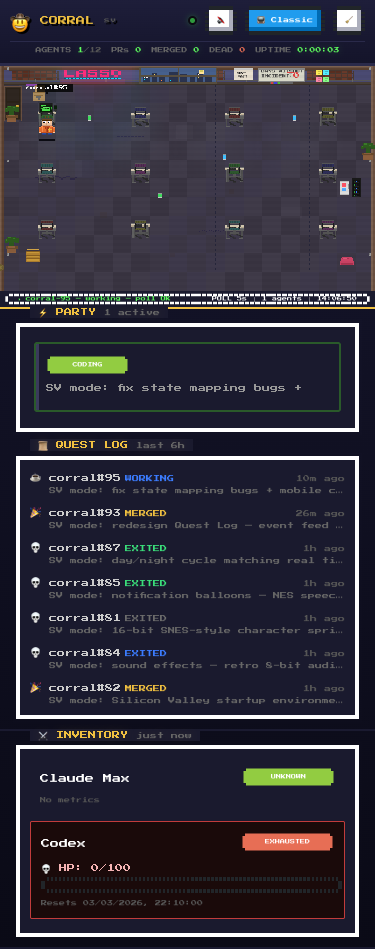
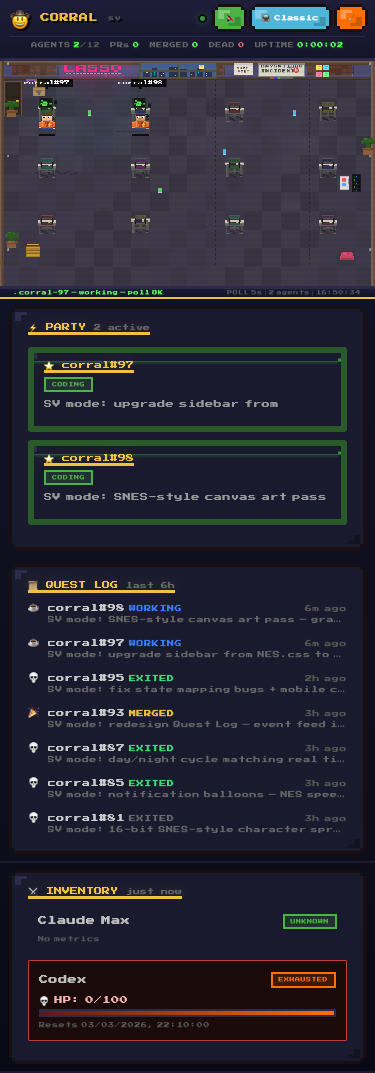
SV mode: SNES-style canvas art pass — gradients, glow, particles
Add surface gradients, ambient lighting, and particle effects to the
SV canvas scene to match SNES-era visual quality standards.

diff --git a/sv.html b/sv.html
@@ -1524,6 +1524,36 @@ for (let r = 0; r < 3; r++)
   for (let c = 0; c < 4; c++)
     DESKS.push({ x: 2 + c * 5, y: 2 + r * 3 });
 
+// --- Ambient particles (dust motes + neon sparkles) ---
+const particles = [];
+(function initParticles() {
+  const W = COLS * TILE, H = ROWS * TILE;
+  // Dust motes — 12 small dots floating upward
+  for (let i = 0; i < 12; i++) {
+    particles.push({
+      type: 'dust',
+      x: Math.random() * W,
+      y: Math.random() * H,
+      vx: (Math.random() - 0.5) * 0.15,
+      vy: -0.1 - Math.random() * 0.15,
+      alpha: 0.15 + Math.random() * 0.15,
+      size: 1 + (Math.random() > 0.7 ? 1 : 0),
+    });
+  }
+  // Neon sparkles — 4 slots near the LASSO sign (nx=55, ny=3)
+  for (let i = 0; i < 4; i++) {
+    particles.push({
+      type: 'sparkle',
+      x: 55 + Math.random() * 48,
+      y: 1 + Math.random() * 10,
+      life: 0,
+      maxLife: 40 + Math.random() * 40,
+      alpha: 0,
+      size: 1,
+    });
+  }
+})();
+
 // --- Walk animation ---
 const DOOR_TILE = { x: 0, y: 1 };
 const WALK_SPEED = 2; // tiles per second
@@ -1741,10 +1771,20 @@ function drawWalls() {
 
 function drawGarageFrame() {
   ctx.save(); ctx.scale(SCALE, SCALE);
-  R(0, 0, COLS * TILE, 3, PAL.beam); R(0, 0, COLS * TILE, 1, PAL.beamLight); R(0, 2, COLS * TILE, 1, PAL.beamDark);
-  R(0, 0, 3, ROWS * TILE, PAL.beam); R(0, 0, 1, ROWS * TILE, PAL.beamLight); R(2, 0, 1, ROWS * TILE, PAL.beamDark);
-  R(COLS * TILE - 3, 0, 3, ROWS * TILE, PAL.beam); R(COLS * TILE - 3, 0, 1, ROWS * TILE, PAL.beamLight);
-  [[6,1],[6,80],[6,160],[COLS*TILE-5,1],[COLS*TILE-5,80],[COLS*TILE-5,160]].forEach(([nx, ny]) => {
+  const W = COLS * TILE, H = ROWS * TILE;
+  R(0, 0, W, 3, PAL.beam); R(0, 0, W, 1, PAL.beamLight); R(0, 2, W, 1, PAL.beamDark);
+  R(0, 0, 3, H, PAL.beam); R(0, 0, 1, H, PAL.beamLight); R(2, 0, 1, H, PAL.beamDark);
+  R(W - 3, 0, 3, H, PAL.beam); R(W - 3, 0, 1, H, PAL.beamLight);
+  // Garage door ridges — horizontal lines suggesting metal slats on side beams
+  for (let gy = 8; gy < H - 4; gy += 12) {
+    ctx.fillStyle = 'rgba(0,0,0,0.12)';
+    ctx.fillRect(0, gy, 3, 1);
+    ctx.fillRect(W - 3, gy, 3, 1);
+    ctx.fillStyle = 'rgba(255,255,255,0.06)';
+    ctx.fillRect(0, gy + 1, 3, 1);
+    ctx.fillRect(W - 3, gy + 1, 3, 1);
+  }
+  [[6,1],[6,80],[6,160],[W-5,1],[W-5,80],[W-5,160]].forEach(([nx, ny]) => {
     ctx.fillStyle = PAL.nail; ctx.fillRect(nx, ny, 2, 2);
     ctx.fillStyle = '#777'; ctx.fillRect(nx, ny, 1, 1);
   });
@@ -2179,9 +2219,18 @@ function drawCoffeeCups(d, count) {
     R(cx + 3, baseY + 1, 1, 2, PAL.cupDark);
   }
   if (count > 0) {
-    const lastX = baseX + (count - 1) * 5 + 1;
-    const phase = frame % 20 < 10 ? 0 : 1;
-    R(lastX, baseY - 1 - phase, 1, 1, 'rgba(255,255,255,0.4)');
+    // Steam/smoke — 2-3 translucent white pixels rising and fading
+    for (let si = 0; si < Math.min(count, 3); si++) {
+      const sx = baseX + si * 5 + 1;
+      const drift = Math.sin(frame * 0.04 + si * 2) * 0.8;
+      for (let sp = 0; sp < 3; sp++) {
+        const age = (frame * 0.06 + si * 3 + sp * 2.5) % 6;
+        const steamAlpha = Math.max(0, 0.35 - age * 0.06);
+        if (steamAlpha > 0.02) {
+          R(sx + (drift | 0), baseY - 1 - (age | 0), 1, 1, 'rgba(255,255,255,' + steamAlpha.toFixed(2) + ')');
+        }
+      }
+    }
   }
   ctx.restore();
 }
@@ -2264,31 +2313,78 @@ function drawFloorSV() {
       tileRect(c, r, 1, 1, base);
     }
   ctx.save(); ctx.scale(SCALE, SCALE);
+  const W = COLS * TILE, H = ROWS * TILE;
+  // Per-row depth gradient — darker at edges, lighter center
+  for (let r = 0; r < ROWS; r++) {
+    const ry = r * TILE;
+    const grad = ctx.createLinearGradient(0, ry, W, ry);
+    const edgeA = (0.06 + r * 0.004).toFixed(3);
+    const midA = '0.000';
+    grad.addColorStop(0, 'rgba(0,0,0,' + edgeA + ')');
+    grad.addColorStop(0.35, 'rgba(0,0,0,' + midA + ')');
+    grad.addColorStop(0.65, 'rgba(0,0,0,' + midA + ')');
+    grad.addColorStop(1, 'rgba(0,0,0,' + edgeA + ')');
+    ctx.fillStyle = grad;
+    ctx.fillRect(0, ry, W, TILE);
+  }
+  // Ceiling area dark-to-medium gradient (top rows suggest depth)
+  const ceilGrad = ctx.createLinearGradient(0, 0, 0, TILE * 2);
+  ceilGrad.addColorStop(0, 'rgba(0,0,20,0.08)');
+  ceilGrad.addColorStop(1, 'rgba(0,0,20,0)');
+  ctx.fillStyle = ceilGrad;
+  ctx.fillRect(0, 0, W, TILE * 2);
   // Warm ambient tint
   ctx.fillStyle = PAL.svFloorWarm;
-  ctx.fillRect(0, 0, COLS * TILE, ROWS * TILE);
+  ctx.fillRect(0, 0, W, H);
   // Concrete cracks
   ctx.fillStyle = '#2e2845';
   for (let i = 0; i < 18; i++) ctx.fillRect(30 + i * 2, 95 + (Math.sin(i * 1.3) * 2 | 0), 2, 1);
   for (let i = 0; i < 12; i++) ctx.fillRect(170 + i * 2, 140 + (i % 3 === 0 ? 1 : 0), 1, 1);
   for (let i = 0; i < 8; i++) ctx.fillRect(100 + i * 3, 60 + (Math.sin(i * 0.7) | 0), 2, 1);
+  // Scuff marks — occasional single dark pixels
+  ctx.fillStyle = 'rgba(20,15,30,0.18)';
+  for (let i = 0; i < 10; i++) {
+    const sx = (i * 31 + 17) % W, sy = TILE + (i * 23 + 7) % (H - TILE);
+    ctx.fillRect(sx, sy, 1, 1);
+  }
   // Floor stains (spilled coffee, etc)
   ctx.fillStyle = 'rgba(60,40,20,0.12)';
   ctx.fillRect(85, 125, 6, 5);
   ctx.fillRect(195, 105, 5, 4);
   ctx.fillRect(145, 160, 4, 3);
-  // Epoxy shine spots
-  ctx.fillStyle = 'rgba(255,255,255,0.02)';
+  // Epoxy shine spots — subtle specular highlights
+  ctx.fillStyle = 'rgba(255,255,255,0.03)';
   ctx.fillRect(50, 80, 20, 15);
   ctx.fillRect(150, 50, 15, 12);
   ctx.fillRect(240, 120, 18, 10);
+  ctx.fillRect(100, 140, 12, 8);
+  ctx.fillRect(200, 60, 16, 10);
   ctx.restore();
 }
 
 function drawWallsSV() {
-  // Base wall
+  // Base wall with horizontal gradient (darker near corners)
   for (let c = 0; c < COLS; c++) tileRect(c, 0, 1, 1, PAL.wall);
   ctx.save(); ctx.scale(SCALE, SCALE);
+  const W = COLS * TILE;
+  // Wall corner darkening gradient
+  const wallGrad = ctx.createLinearGradient(0, 0, W, 0);
+  wallGrad.addColorStop(0, 'rgba(0,0,0,0.08)');
+  wallGrad.addColorStop(0.15, 'rgba(0,0,0,0)');
+  wallGrad.addColorStop(0.85, 'rgba(0,0,0,0)');
+  wallGrad.addColorStop(1, 'rgba(0,0,0,0.08)');
+  ctx.fillStyle = wallGrad;
+  ctx.fillRect(0, 0, W, TILE);
+  // Panel seams every 3-4 tiles with color variation
+  for (let px = 0; px < W; px += TILE * 3) {
+    ctx.fillStyle = 'rgba(0,0,0,0.1)';
+    ctx.fillRect(px, 1, 1, TILE - 3);
+    // Slight color variation between panels
+    if ((px / (TILE * 3)) % 2 === 1) {
+      ctx.fillStyle = 'rgba(255,255,255,0.02)';
+      ctx.fillRect(px + 1, 1, TILE * 3 - 1, TILE - 3);
+    }
+  }
   // Exposed brick sections on left and right walls
   const brickW = 4, brickH = 2;
   for (let section = 0; section < 3; section++) {
@@ -2297,7 +2393,9 @@ function drawWallsSV() {
     for (let by = 1; by < TILE - 3; by += brickH + 1) {
       const offset = (by % 4 === 1) ? 0 : 2;
       for (let bx = sx + offset; bx < sx + sw; bx += brickW + 1) {
-        const bColor = Math.random() > 0.3 ? PAL.svBrick : PAL.svBrickDark;
+        // 2-3 shade variations per row
+        const shade = ((bx + by * 3) % 3);
+        const bColor = shade === 0 ? PAL.svBrick : shade === 1 ? PAL.svBrickDark : '#7a4a3a';
         ctx.fillStyle = bColor;
         ctx.fillRect(bx, by, Math.min(brickW, sx + sw - bx), brickH);
         // Mortar
@@ -2308,26 +2406,29 @@ function drawWallsSV() {
     }
   }
   // Baseboard
-  ctx.fillStyle = '#3a3028'; ctx.fillRect(0, TILE - 2, COLS * TILE, 2);
-  ctx.fillStyle = '#4a4038'; ctx.fillRect(0, TILE - 2, COLS * TILE, 1);
+  ctx.fillStyle = '#3a3028'; ctx.fillRect(0, TILE - 2, W, 2);
+  ctx.fillStyle = '#4a4038'; ctx.fillRect(0, TILE - 2, W, 1);
   // Electrical conduit lines running along wall
   ctx.fillStyle = PAL.svConduit;
-  ctx.fillRect(0, TILE - 4, COLS * TILE, 1);
+  ctx.fillRect(0, TILE - 4, W, 1);
   ctx.fillStyle = PAL.svConduitLight;
-  for (let x = 0; x < COLS * TILE; x += 30) {
+  for (let x = 0; x < W; x += 30) {
     ctx.fillRect(x, TILE - 5, 1, 3); // conduit brackets
   }
-  // Fluorescent light strips on ceiling — brighter at night
+  // Fluorescent light strips on ceiling — brighter at night, with flicker
   const { nightFactor: wallNF } = getTimeOfDay();
   const flourGlowAlpha = (0.06 + wallNF * 0.12).toFixed(3);
   for (let i = 0; i < 4; i++) {
     const lx = 30 + i * 70, ly = 0;
+    // Subtle flicker — random alpha variation every ~120 frames
+    const flicker = 1.0 - ((frame + i * 37) % 120 < 3 ? 0.15 : 0);
     ctx.fillStyle = PAL.svFluor;
     ctx.fillRect(lx, ly, 30, 2);
-    ctx.fillStyle = wallNF > 0.3 ? 'rgba(255,255,255,' + (0.8 + wallNF * 0.2).toFixed(2) + ')' : '#fff';
+    const tubeAlpha = wallNF > 0.3 ? (0.8 + wallNF * 0.2) * flicker : flicker;
+    ctx.fillStyle = 'rgba(255,255,255,' + tubeAlpha.toFixed(2) + ')';
     ctx.fillRect(lx + 2, ly, 26, 1);
-    // Glow below
-    ctx.fillStyle = 'rgba(200,232,255,' + flourGlowAlpha + ')';
+    // Glow below — modulated by flicker
+    ctx.fillStyle = 'rgba(200,232,255,' + (parseFloat(flourGlowAlpha) * flicker).toFixed(3) + ')';
     ctx.fillRect(lx - 4, ly + 2, 38, 8);
   }
   ctx.restore();
@@ -2342,6 +2443,8 @@ function drawDeskSV(d, idx) {
   if (isStanding) {
     // Standing desk — taller frame, adjustable legs
     R(x, y - 2, TILE, 2, PAL.svDeskSurface); R(x, y - 2, TILE, 1, PAL.svDeskFrameLight);
+    // Wood grain — alternating thin lines
+    for (let gx = x + 1; gx < x + TILE - 1; gx += 2) R(gx, y - 1, 1, 1, PAL.svDeskSurfaceDark);
     R(x, y, TILE, 1, PAL.svDeskSurfaceDark);
     // Height-adjustable frame legs (double lines)
     R(x + 1, y + 1, 1, 10, PAL.svDeskFrame); R(x + 2, y + 1, 1, 10, PAL.svDeskFrameDark);
@@ -2349,9 +2452,11 @@ function drawDeskSV(d, idx) {
     // Crossbar
     R(x + 2, y + 6, TILE - 4, 1, PAL.svDeskFrameDark);
   } else {
-    // Regular desk — wider, L-shaped modern desk
+    // Regular desk — wider, L-shaped modern desk with wood grain
     R(x, y, TILE, 2, PAL.svDeskSurface); R(x, y, TILE, 1, '#d8ccb4');
-    for (let gx = x + 2; gx < x + TILE - 1; gx += 3) R(gx, y + 1, 2, 1, PAL.svDeskSurfaceDark);
+    // Wood grain effect — alternating thin lines of 2 brown shades
+    for (let gx = x + 1; gx < x + TILE - 1; gx += 2) R(gx, y + 1, 1, 1, PAL.svDeskSurfaceDark);
+    for (let gx = x + 2; gx < x + TILE - 1; gx += 3) R(gx, y + 1, 2, 1, '#c4b898');
     R(x, y + 2, TILE, 3, PAL.svDeskFrame); R(x, y + 2, TILE, 1, PAL.svDeskFrameLight);
     // Metal legs
     R(x + 1, y + 5, 1, 7, PAL.svDeskFrameDark); R(x + TILE - 2, y + 5, 1, 7, PAL.svDeskFrameDark);
@@ -2444,10 +2549,15 @@ function drawMonitorSV(d, state, monitorText, idx) {
     ctx.save(); ctx.scale(SCALE, SCALE);
   }
 
-  // Monitor glow on desk/floor
+  // Monitor glow on desk/floor — radial gradient for light pool
   if (state === 'coding' || state === 'ci_failed') {
-    const glowColor = state === 'ci_failed' ? 'rgba(255,59,59,0.06)' : 'rgba(74,224,74,0.06)';
-    R(x - 1, y + 9, 14, 4, glowColor);
+    const gcx = x + 6, gcy = y + 10;
+    const gr = state === 'ci_failed' ? 'rgba(255,59,59,' : 'rgba(74,224,74,';
+    const glow = ctx.createRadialGradient(gcx, gcy, 1, gcx, gcy + 3, 10);
+    glow.addColorStop(0, gr + '0.12)');
+    glow.addColorStop(1, gr + '0)');
+    ctx.fillStyle = glow;
+    ctx.fillRect(x - 4, y + 6, 20, 12);
   }
   ctx.restore();
 }
@@ -2576,26 +2686,37 @@ function drawPropsSV() {
 }
 
 function drawLightingSV() {
-  const { nightFactor } = getTimeOfDay();
-  // Neon sign extended glow on nearby walls/floor — stronger at night
+  const { nightFactor, warmFactor, hour } = getTimeOfDay();
+  // Neon sign extended glow on nearby walls/floor — larger radius, stronger at night
   const neonCX = (55 + 24) * SCALE;
   const neonCY = 5 * SCALE;
-  const neonAlpha1 = (0.07 + nightFactor * 0.08).toFixed(3);
-  const neonAlpha2 = (0.03 + nightFactor * 0.04).toFixed(3);
-  const neonGrad = ctx.createRadialGradient(neonCX, neonCY, 10, neonCX, neonCY + 80, 140);
+  const neonAlpha1 = (0.09 + nightFactor * 0.10).toFixed(3);
+  const neonAlpha2 = (0.04 + nightFactor * 0.06).toFixed(3);
+  const neonGrad = ctx.createRadialGradient(neonCX, neonCY, 8, neonCX, neonCY + 90, 180);
   neonGrad.addColorStop(0, 'rgba(255,45,123,' + neonAlpha1 + ')');
-  neonGrad.addColorStop(0.5, 'rgba(0,229,255,' + neonAlpha2 + ')');
+  neonGrad.addColorStop(0.4, 'rgba(0,229,255,' + neonAlpha2 + ')');
   neonGrad.addColorStop(1, 'rgba(0,0,0,0)');
   ctx.fillStyle = neonGrad;
-  ctx.fillRect(neonCX - 140, neonCY - 10, 280, 200);
+  ctx.fillRect(neonCX - 180, neonCY - 20, 360, 240);
+  // Neon color bleed onto nearby wall tiles (cyan/pink tint)
+  ctx.save(); ctx.scale(SCALE, SCALE);
+  const wallBleedAlpha = (0.04 + nightFactor * 0.06).toFixed(3);
+  ctx.fillStyle = 'rgba(255,45,123,' + wallBleedAlpha + ')';
+  ctx.fillRect(50, 0, 20, TILE);
+  ctx.fillStyle = 'rgba(0,229,255,' + wallBleedAlpha + ')';
+  ctx.fillRect(70, 0, 40, TILE);
+  ctx.fillStyle = 'rgba(255,45,123,' + (parseFloat(wallBleedAlpha) * 0.5).toFixed(3) + ')';
+  ctx.fillRect(90, 0, 20, TILE);
+  ctx.restore();
 
-  // Fluorescent ceiling light glow pools on floor — brighter at night
+  // Fluorescent ceiling light glow pools on floor — brighter at night, with flicker
   const ceilAlpha = (0.04 + nightFactor * 0.08).toFixed(3);
   for (let i = 0; i < 4; i++) {
     const lx = (30 + i * 70 + 15) * SCALE;
     const ly = 3 * S;
+    const flicker = 1.0 - ((frame + i * 37) % 120 < 3 ? 0.15 : 0);
     const flGrad = ctx.createRadialGradient(lx, ly, 5, lx, ly + 40, 80);
-    flGrad.addColorStop(0, 'rgba(200,232,255,' + ceilAlpha + ')');
+    flGrad.addColorStop(0, 'rgba(200,232,255,' + (parseFloat(ceilAlpha) * flicker).toFixed(3) + ')');
     flGrad.addColorStop(1, 'rgba(200,232,255,0)');
     ctx.fillStyle = flGrad;
     ctx.fillRect(lx - 80, ly, 160, 100);
@@ -2626,6 +2747,58 @@ function drawLightingSV() {
       ctx.fillRect(mx - 40, my - 5, 80, 50);
     });
   }
+
+  // Daytime: window light beam — warm yellow trapezoid on floor
+  if (nightFactor < 0.5) {
+    const beamAlpha = (0.03 * (1 - nightFactor)).toFixed(3);
+    ctx.save(); ctx.scale(SCALE, SCALE);
+    // Window is at x=120, y=2, w=64 — light falls onto floor below
+    const wx = 130, wy = TILE + 4;
+    const beamGrad = ctx.createLinearGradient(wx, wy, wx, wy + TILE * 4);
+    beamGrad.addColorStop(0, 'rgba(255,240,180,' + beamAlpha + ')');
+    beamGrad.addColorStop(1, 'rgba(255,240,180,0)');
+    ctx.fillStyle = beamGrad;
+    ctx.beginPath();
+    ctx.moveTo(wx, wy); ctx.lineTo(wx + 50, wy);
+    ctx.lineTo(wx + 60, wy + TILE * 4); ctx.lineTo(wx - 10, wy + TILE * 4);
+    ctx.closePath(); ctx.fill();
+    ctx.restore();
+  }
+}
+
+function drawParticles() {
+  const W = COLS * TILE, H = ROWS * TILE;
+  ctx.save(); ctx.scale(SCALE, SCALE);
+  for (let i = 0; i < particles.length; i++) {
+    const p = particles[i];
+    if (p.type === 'dust') {
+      // Update position — slow upward drift with horizontal wobble
+      p.x += p.vx + Math.sin(frame * 0.02 + i) * 0.05;
+      p.y += p.vy;
+      // Reset when exiting top
+      if (p.y < 0) { p.y = H; p.x = Math.random() * W; }
+      if (p.x < 0) p.x = W; if (p.x > W) p.x = 0;
+      ctx.fillStyle = 'rgba(200,200,220,' + p.alpha.toFixed(2) + ')';
+      ctx.fillRect(p.x | 0, p.y | 0, p.size, p.size);
+    } else if (p.type === 'sparkle') {
+      p.life++;
+      if (p.life >= p.maxLife) {
+        // Respawn at random position near neon sign
+        p.x = 55 + Math.random() * 48;
+        p.y = 1 + Math.random() * 10;
+        p.life = 0;
+        p.maxLife = 40 + Math.random() * 40;
+      }
+      // Fade in then out
+      const t = p.life / p.maxLife;
+      p.alpha = t < 0.3 ? t / 0.3 : (1 - t) / 0.7;
+      if (p.alpha > 0.02) {
+        ctx.fillStyle = 'rgba(255,220,255,' + (p.alpha * 0.6).toFixed(2) + ')';
+        ctx.fillRect(p.x | 0, p.y | 0, 1, 1);
+      }
+    }
+  }
+  ctx.restore();
 }
 
 // Map live agents to desk positions for canvas rendering
@@ -2724,6 +2897,7 @@ function render() {
   drawTumbleweed();
   drawPlant(0, 2); drawPlant(0, 9); drawPlant(COLS - 1, 4);
   drawServerRack((COLS - 1) * TILE - 4, 6 * TILE);
+  drawParticles();
 
   // Day/night overlay — applied last, over entire scene
   drawDayNightOverlay();
